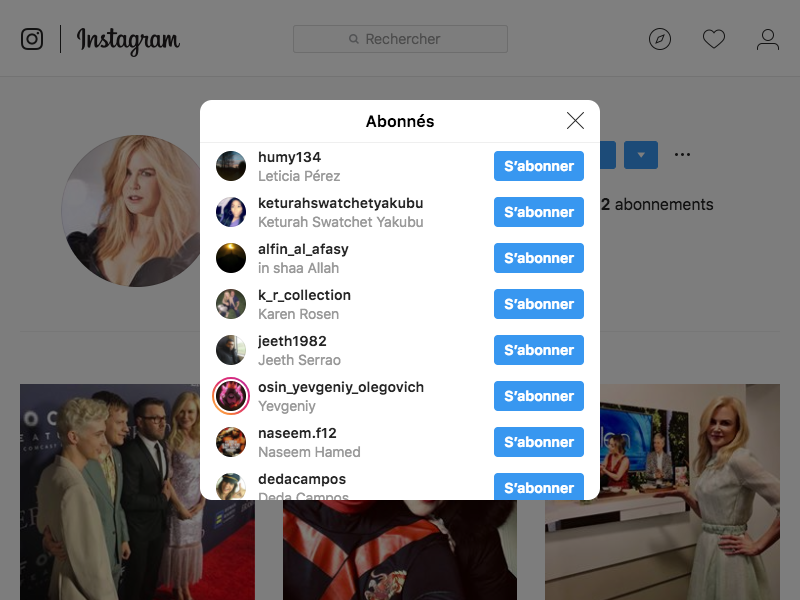
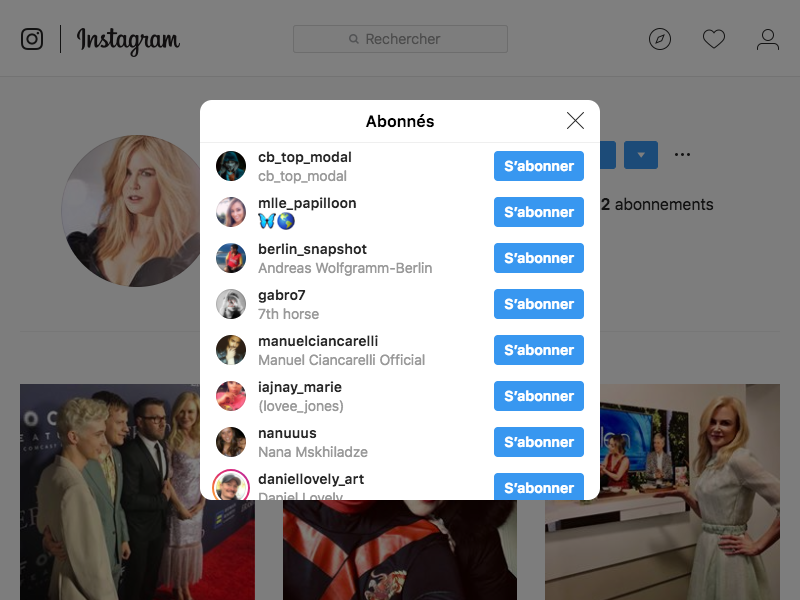
Getting List of 12 first followers and saving in text file

Changed region(s): [[0.25, 0.33, 0.5312, 0.84], [0.25, 0.24, 0.4375, 0.3]]

diff --git a/scrollTry.js b/scrollTry.js
@@ -1,5 +1,4 @@
 const puppeteer = require('puppeteer');
-const fs = require('fs');
 const CREDS = require('./creds');
 
 // Dom Elements
@@ -12,8 +11,44 @@ const userToSearch = 'nicolekidman';
 const searchUser = `https://www.instagram.com/${userToSearch}`;
 // Cannot search followers directly with URL, I get redirected on user's profile
 // const searchFollowers = `https://www.instagram.com/${userToSearch}/followers`;
-const followersWindow = `a[href='/${userToSearch}/followers/']`;
+const followers = `a[href='/${userToSearch}/followers/']`;
 const firstFollower = 'a[class="FPmhX notranslate _0imsa "]';
+
+// Function extractFollower
+function extractFollowers() {
+  const extractedFollowers = document.querySelectorAll('.FPmhX notranslate _0imsa ');
+  const followers = [];
+  for (let element of extractedElements) {
+    followers.push(element.textContent);
+  }
+  return followers;
+}
+
+
+// Scrolling Function
+async function scrapeInfiniteScrollItems(
+  page,
+  extractFollowers,
+  followersTargetCount,
+  scrollDelay = 1000,
+) {
+  let items = [];
+  const scrollable_popup = '.PZuss';
+  console.log('Hello Debug1');
+  try {
+    let previousHeight;
+    while (items.length < followersTargetCount) {
+      items = await page.evaluate(extractFollowers);
+      // Not showing in the browser from, the code is breaking at this point
+      console.log('Hello2');
+      previousHeight = await page.evaluate('scrollable_popup.scrollHeight');
+      await page.evaluate('window.scrollTo(0, scrollable_popup.scrollHeight)');
+      await page.waitForFunction(`scrollable_popup.scrollHeight > ${previousHeight}`);
+      await page.waitFor(scrollDelay);
+    }
+  } catch(e) { }
+  return items;
+}
 
 
 (async() => {
@@ -27,7 +62,7 @@ const firstFollower = 'a[class="FPmhX notranslate _0imsa "]';
   await page.click(usernameInput);
   await page.keyboard.type(CREDS.username);
 
-  // Type password, submit and wait 3 sec
+  // Type password and submit
   await page.click(passwordInput);
   await page.keyboard.type(CREDS.password);
   await page.click(submitButton);
@@ -35,29 +70,18 @@ const firstFollower = 'a[class="FPmhX notranslate _0imsa "]';
 
   // Search User with URL
   await page.goto(searchUser);
-  await page.click(followersWindow);
+  await page.click(followers);
   await page.waitFor(3000);
   await page.screenshot({ path: 'screenshots/insta.png' });
 
   // Pb: each time you launch the programm, the list changes and you get a different
   // list of followers
-  // Edit: Tricky, the same popup renders a list of followers for the profile
+  // Edit: Really tricky, the same popup renders a list of followers for the profile
   // searched (12 profiles) and also suggestions of people to follow (10 profiles)
-  let followersList = await page.evaluate(() => {
-    let followers = [];
-    let elements = document.getElementsByClassName('FPmhX notranslate _0imsa ');
-    for (let element of elements)
-        followers.push(element.textContent);
-      // Take the actual followers and not the suggestions
-      followers.length = 12;
-    return followers;
-  });
-
-  // Print followersList and save in a file
-  console.log(followersList);
-  fs.writeFileSync('./followersList.txt', followersList.join('\n') + '\n');
+  const findFollowers = await scrapeInfiniteScrollItems(page, extractFollowers, 100);
+  console.log(findFollowers);
 
   // Go to first follower profile
-  await page.click(firstFollower);
+  // await page.click(firstFollower);
   // await browser.close();
 })();
